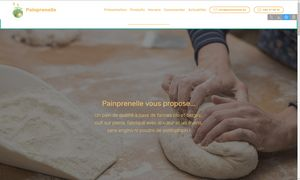
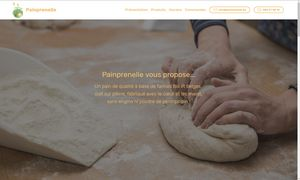
fin de vacances

diff --git a/index.html b/index.html
@@ -20,8 +20,8 @@
   <link rel="stylesheet" href="assets/bootstrap/css/bootstrap-grid.min.css">
   <link rel="stylesheet" href="assets/bootstrap/css/bootstrap-reboot.min.css">
   <link rel="stylesheet" href="assets/socicon/css/styles.css">
-  <link rel="stylesheet" href="assets/animatecss/animate.min.css">
   <link rel="stylesheet" href="assets/dropdown/css/style.css">
+  <link rel="stylesheet" href="assets/animatecss/animate.min.css">
   <link rel="stylesheet" href="assets/tether/tether.min.css">
   <link rel="stylesheet" href="assets/theme/css/style.css">
   <link rel="preload" as="style" href="assets/mobirise/css/mbr-additional.css"><link rel="stylesheet" href="assets/mobirise/css/mbr-additional.css" type="text/css">
@@ -56,27 +56,14 @@
         <div class="collapse navbar-collapse" id="navbarSupportedContent">
             <ul class="navbar-nav nav-dropdown" data-app-modern-menu="true"><li class="nav-item">
                     <a class="nav-link link text-secondary display-4" href="presentation.html">Présentation</a>
-                </li><li class="nav-item"><a class="nav-link link text-secondary display-4" href="index.html#services6-1r">Produits</a></li><li class="nav-item"><a class="nav-link link text-secondary display-4" href="index.html#content4-1p">Horaire</a></li><li class="nav-item"><a class="nav-link link text-secondary display-4" href="index.html#form1-7">Commander</a></li><li class="nav-item"><a class="nav-link link text-secondary display-4" href="page2.html">Actualités</a></li></ul>
+                </li><li class="nav-item"><a class="nav-link link text-secondary display-4" href="index.html#services6-1r">Produits</a></li><li class="nav-item"><a class="nav-link link text-secondary display-4" href="index.html#content4-1p">Horaire</a></li><li class="nav-item"><a class="nav-link link text-secondary display-4" href="index.html#form1-7">Commander</a></li></ul>
             <div class="navbar-buttons mbr-section-btn"><a class="btn btn-sm btn-secondary-outline display-7" href="mailto:info@painprenelle.be"><span class="mbri-letter mbr-iconfont mbr-iconfont-btn"></span>info@painprenelle.be<br></a> <a class="btn btn-sm btn-secondary-outline display-7" href="tel:+3286370810"><span class="mbri-mobirise mbr-iconfont mbr-iconfont-btn"></span>
                     086 37 08 10<br></a></div>
         </div>
     </nav>
 </section>
 
-<section class="engine"><a href="https://mobirise.info/t">free amp templates</a></section><section class="mbr-section article content9 cid-tlG49vyXrc" id="content9-25">
-    
-     
-
-    <div class="container">
-        <div class="inner-container" style="width: 100%;">
-            <hr class="line" style="width: 25%;">
-            <div class="section-text align-center mbr-fonts-style display-2">Fermeture du 24 Octobre au 6 Novembre 2022 !<br>Bonnes Vacances !</div>
-            <hr class="line" style="width: 25%;">
-        </div>
-        </div>
-</section>
-
-<section class="cid-s4lnZtnwAY mbr-fullscreen mbr-parallax-background" id="header2-3">
+<section class="engine"><a href="https://mobirise.info/n">free simple web templates</a></section><section class="cid-s4lnZtnwAY mbr-fullscreen mbr-parallax-background" id="header2-3">
 
     
 
@@ -391,7 +378,7 @@
         <div class="row justify-content-center">
             <div class="media-container-column col-lg-8" data-form-type="formoid">
                 <!---Formbuilder Form--->
[2 lines of base64/hex data omitted]
                     <div class="row">
                         <div hidden="hidden" data-form-alert="" class="alert alert-success col-12">Merci pour votre commande !</div>
                         <div hidden="hidden" data-form-alert-danger="" class="alert alert-danger col-12">
@@ -553,10 +540,10 @@
   <script src="assets/popper/popper.min.js"></script>
   <script src="assets/bootstrap/js/bootstrap.min.js"></script>
   <script src="assets/smoothscroll/smooth-scroll.js"></script>
-  <script src="assets/viewportchecker/jquery.viewportchecker.js"></script>
   <script src="assets/dropdown/js/nav-dropdown.js"></script>
   <script src="assets/dropdown/js/navbar-dropdown.js"></script>
   <script src="assets/touchswipe/jquery.touch-swipe.min.js"></script>
+  <script src="assets/viewportchecker/jquery.viewportchecker.js"></script>
   <script src="assets/parallax/jarallax.min.js"></script>
   <script src="assets/tether/tether.min.js"></script>
   <script src="assets/theme/js/script.js"></script>

diff --git a/presentation.html b/presentation.html
@@ -56,14 +56,14 @@
         <div class="collapse navbar-collapse" id="navbarSupportedContent">
             <ul class="navbar-nav nav-dropdown" data-app-modern-menu="true"><li class="nav-item">
                     <a class="nav-link link text-secondary display-4" href="presentation.html">Présentation</a>
-                </li><li class="nav-item"><a class="nav-link link text-secondary display-4" href="index.html#services6-1r">Produits</a></li><li class="nav-item"><a class="nav-link link text-secondary display-4" href="index.html#content4-1p">Horaire</a></li><li class="nav-item"><a class="nav-link link text-secondary display-4" href="index.html#form1-7">Commander</a></li><li class="nav-item"><a class="nav-link link text-secondary display-4" href="page2.html">Actualités</a></li></ul>
+                </li><li class="nav-item"><a class="nav-link link text-secondary display-4" href="index.html#services6-1r">Produits</a></li><li class="nav-item"><a class="nav-link link text-secondary display-4" href="index.html#content4-1p">Horaire</a></li><li class="nav-item"><a class="nav-link link text-secondary display-4" href="index.html#form1-7">Commander</a></li></ul>
             <div class="navbar-buttons mbr-section-btn"><a class="btn btn-sm btn-secondary-outline display-7" href="mailto:info@painprenelle.be"><span class="mbri-letter mbr-iconfont mbr-iconfont-btn"></span>info@painprenelle.be<br></a> <a class="btn btn-sm btn-secondary-outline display-7" href="tel:+3286370810"><span class="mbri-mobirise mbr-iconfont mbr-iconfont-btn"></span>
                     086 37 08 10<br></a></div>
         </div>
     </nav>
 </section>
 
-<section class="engine"><a href="https://mobirise.info/h">create your own web page for free</a></section><section class="cid-s9oqNKMpuk mbr-fullscreen" data-bg-video="https://www.youtube.com/watch?v=2kOsWHpJuRI" id="header2-t">
+<section class="engine"><a href="https://mobirise.info/l">free web templates</a></section><section class="cid-s9oqNKMpuk mbr-fullscreen" data-bg-video="https://www.youtube.com/watch?v=2kOsWHpJuRI" id="header2-t">
 
     
 

diff --git a/page2.html b/page2.html
@@ -56,14 +56,14 @@
         <div class="collapse navbar-collapse" id="navbarSupportedContent">
             <ul class="navbar-nav nav-dropdown" data-app-modern-menu="true"><li class="nav-item">
                     <a class="nav-link link text-secondary display-4" href="presentation.html">Présentation</a>
-                </li><li class="nav-item"><a class="nav-link link text-secondary display-4" href="index.html#services6-1r">Produits</a></li><li class="nav-item"><a class="nav-link link text-secondary display-4" href="index.html#content4-1p">Horaire</a></li><li class="nav-item"><a class="nav-link link text-secondary display-4" href="index.html#form1-7">Commander</a></li><li class="nav-item"><a class="nav-link link text-secondary display-4" href="page2.html">Actualités</a></li></ul>
+                </li><li class="nav-item"><a class="nav-link link text-secondary display-4" href="index.html#services6-1r">Produits</a></li><li class="nav-item"><a class="nav-link link text-secondary display-4" href="index.html#content4-1p">Horaire</a></li><li class="nav-item"><a class="nav-link link text-secondary display-4" href="index.html#form1-7">Commander</a></li></ul>
             <div class="navbar-buttons mbr-section-btn"><a class="btn btn-sm btn-secondary-outline display-7" href="mailto:info@painprenelle.be"><span class="mbri-letter mbr-iconfont mbr-iconfont-btn"></span>info@painprenelle.be<br></a> <a class="btn btn-sm btn-secondary-outline display-7" href="tel:+3286370810"><span class="mbri-mobirise mbr-iconfont mbr-iconfont-btn"></span>
                     086 37 08 10<br></a></div>
         </div>
     </nav>
 </section>
 
-<section class="engine"><a href="https://mobirise.info/p">site templates free download</a></section><section class="mbr-section content4 cid-tfqH1ZphAv" id="content4-20">
+<section class="engine"><a href="https://mobirise.info/j">website templates</a></section><section class="mbr-section content4 cid-tfqH1ZphAv" id="content4-20">
 
     
 

diff --git a/assets/mobirise/css/mbr-additional.css b/assets/mobirise/css/mbr-additional.css
@@ -710,30 +710,6 @@ iframe.lazy-placeholder,
 section.lazy-placeholder:after {
   opacity: 0.3;
 }
-.cid-tlG49vyXrc {
-  padding-top: 120px;
-  padding-bottom: 30px;
-  background-color: #ffffff;
-}
-.cid-tlG49vyXrc .line {
-  background-color: #ffcc66;
-  color: #ffcc66;
-  align: center;
-  height: 2px;
-  margin: 0 auto;
-}
-.cid-tlG49vyXrc .section-text {
-  padding: 2rem 0;
-  color: #f2c26d;
-}
-.cid-tlG49vyXrc .inner-container {
-  margin: 0 auto;
-}
-@media (max-width: 768px) {
-  .cid-tlG49vyXrc .inner-container {
-    width: 100% !important;
-  }
-}
 .cid-s4lmbV9fjN .navbar {
   background: #ffffff;
   transition: none;
